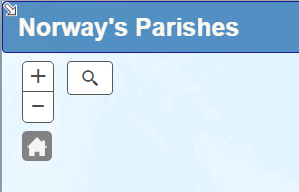
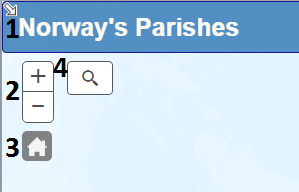
fix typos. Final commit for v2.1

diff --git a/help_v2.html b/help_v2.html
@@ -1,20 +1,22 @@
 <div class="content" class="bg-warning"><button id="exitButton" class="glyphicon glyphicon-remove-circle"></button>
     <h1>Using this application</h1>	
-    <p>This page gives instructions on how to use the various tools in this application including the basic map controls and the various search options. The following topics are covered: </p>
+    <p>This page gives instructions on how to use the various tools available in this website, including the basic map controls and the various search options. The following topics are covered: </p>
     <ul>
         <li><a href="#mapControls">Map Controls</a></li>
         <li><a href="#parishSearch">Parish Search Methods</a></li>
-        <li><a href="#farm">Farm Search Tool</a></li>
-        <li><a href="#farmExample">Farm Search Example</a></li>
+        <li><a href="#farm">Property (Farm) Search</a></li>
+        <li><a href="#farmExample">Example: Farm Search</a></li>
     </ul>
 
     <a name="mapControls"></a>
     <h2>Map Controls</h2> <hr>
-    <p> <img src="IMG/map-controls.PNG" align="left" class="img-rounded">The image to the left resembles the top left portion of the home screen. The buttons available here are primarily for map navigation purposes. The plus and minus buttons allow you to zoom in and out, while the "home" button will return you to the initial extent of the map. <img src="IMG/legend.PNG" align="right"> You'll also notice a small arrow in the top left corner of the image pointing towards the bottom right corner. When clicked, this opens an overview map that gives geographic context to the current extent of the map. This is particularly useful when the map is zoomed in very closely on the parish, city and property levels.</p>
-    
-    <p>The button symbolized with a magnifying glass allows you to search and zoom to parishes, municipalities, counties, or street addresses. See the <a href="#searchBar">Parish Search</a> topic below for more details on this tool. It is important to note that this button is not designed for searching farm or property names. To search farm names, see the <a href="#farm">Property (Farm) Search topic</a> below.</p>
-    
-    <p>The image on the right depicts the legend, which is located on the bottom right portion of the map. Here you can toggle various layers on and off, including parishes, municipalities, counties, and satellite imagery.</p>
+    <p> <img src="IMG/map-controls.PNG" align="left" class="img-rounded"> The image to the left resembles the top left portion of the home screen. The buttons available here are primarily for map navigation purposes. Match the labels in the image to the corresponding tool's description below.</p>
+        <p><strong>1. Overview map</strong> - Clicking this small arrow opens an overview map that gives geographic context to the current extent of the map. This is particularly useful when the map is zoomed in very closely on the parish, city and property levels.</p>
+        <p><strong>2. Zoom controls</strong> - clicking (+) zooms in one level to the center of the map. Clicking (-) zooms out one level.</p>
+        <p><strong>3. Home button</strong> - Click this button to return to the initial extent of the map.</p>
+        <p><strong>4. Search bar</strong> - Click this button to open the search bar, allowing you to search any parish, municipality, county, or address from one location. See the <a href="#searchBar">section below</a> for details and tips on using this tool. It is important to note that this button is not designed for searching farm or property names. To search farm names, see the <a href="#farm">Property (Farm) Search topic</a> below.</p>
+    <img src="IMG/legend.PNG" align="right">  
+    <p>The image to the right depicts the legend, which is located on the bottom right portion of the map. Here you can toggle various layers on and off, including parishes, municipalities, counties, and satellite imagery.</p>
     
     <a name="parishSearch"></a>
     <h2>Parish Search Methods</h2> <hr>
@@ -27,7 +29,7 @@
     </p>
 <a name="dropdown"></a>
 <h4>Dropdown menus</h4>
-<p>The dropdown menus in the <strong>Tools</strong> section to the left of the map allow you to select counties, municipalities, and parishes by jurisdiction. As you select a value from one dropdown, the remaining dropdowns will automatically populate with their appropriate values and the map will highlight and zoom to the selected geography. <img src="IMG/info.PNG" class="fullImage"> In addition to zooming to the region, a side panel will appear on the right side of the map displaying information for the region. On the parish level you will see links to general, historical and farm information for the parish along with links to the <a href="http://www.arkivverket.no/eng/Digitalarkivet">Norwegian Digital Archives</a> to search vital records filtered by the parish.</p>
+<p>The dropdown menus in the <strong>Tools</strong> section to the left of the map allow you to select counties, municipalities, and parishes by jurisdiction. As you select a value from one dropdown, the remaining dropdowns will automatically populate with their appropriate values and the map will highlight and zoom to the selected geography. <img src="IMG/info.PNG" class="fullImage"> In addition to zooming to the region, a side panel will appear on the right side of the map displaying information for the region. On the parish level you will see links to general, historical and farm information for the parish along with links to the <a href="http://www.arkivverket.no/eng/Digitalarkivet" target="_blank">Norwegian Digital Archives</a> to search vital records filtered by the parish.</p>
 
 <blockquote>This side panel will appear when a region is selected via any of the methods listed in this section. </blockquote>
 
@@ -36,7 +38,7 @@
 
 <img src="IMG/parish-search-2.png" align="right">
 
-<p> The search bar allows you to search any county, municipality, and parish in Norway with text input. As you type text, the names of geographic regions that match the spelling will appear in a suggestion dropdown in bold. You will notice that other suggestions are made for regions whose names don't match the search text. These results indicate regions under the jurisdiction of higher-level regions (e.g. parishes within counties). For example, in the image to the right, the user is typing "Hedmark" in the search bar for Hedmark County. Exact matches are made for "Hedmark" county and "Heddal" parish. The other municipalities and parishes being suggested belong to Hedmark County. </p>
+<p> The search bar is opened by clicking the button symbolized with a magnifying glass in the top left portion of the screen. This allows you to search any county, municipality, and parish in Norway with text input. As you type text, the names of geographic regions that match the spelling will appear in a suggestion dropdown in bold. You will notice that other suggestions are made for regions whose names don't match the search text. These results indicate regions under the jurisdiction of higher-level regions (e.g. parishes within counties). For example, in the image to the right, the user is typing "Hedmark" in the search bar for Hedmark County. Exact matches are made for "Hedmark" county and "Heddal" parish. The other municipalities and parishes being suggested belong to Hedmark County. </p>
 
 <!--<img src="IMG/parish-search-1.png" align="left">-->
 
@@ -48,14 +50,14 @@
 
 <a name="zoom"></a>
 <h4>Zoom and click</h4>
-<p>Upon zooming to an appropriate level in the map, you will notice the boundaries of parishes appear as purple lines along with their names. You can center and zoom to a parish and view its pertinent geographic information by simply clicking the region directly on the map. You may also do the same for counties and municipalities. To do so, however, you must turn on each of those sets of boundaries in the legend. Note that if multiple boundaries are turned on simultaneously, the highest geographic level will be selected when clicked. For example, if municipal and parish boundaries are both turned on, the municpality will be selected. If all layers are turned on, the county will be selected. Only the parishes are on by default.</p>
+<p>Upon zooming to an appropriate level in the map, you will notice the boundaries of parishes appear as purple lines along with their names. You can center and zoom to a parish and view its pertinent geographic information by simply clicking the region directly on the map. You may also do the same for counties and municipalities. To do so, however, you must turn on each of those sets of boundaries in the legend. Note that if multiple boundaries are turned on simultaneously, the highest geographic level will be selected when clicked. For example, if municipal and parish boundaries are both turned on, the municipality will be selected. If all layers are turned on, the county will be selected. Only the parishes are on by default.</p>
     
 <a name="farm"></a>
     <h2>Property (Farm) Search</h2> <hr>
 
  <img src="IMG/farm-search.PNG" align="left"> 
 
-    <p>Below the dropdown menus in the <strong>Tools</strong> section you will see a text box for searching farm/property names. This allows you to search any property nationwide by its <a href="http://www.borgos.nndata.no/FARMS.HTM">name</a>.</p>
+    <p>Below the dropdown menus in the <strong>Tools</strong> section you will see a text box for searching farm/property names. This allows you to search any property nationwide by its <a href="http://www.borgos.nndata.no/FARMS.HTM" target="_blank">name</a>.</p>
 
 <p>A nice feature of this search is that you can filter your results based on the region you have selected on the map. This is enabled when the checkbox below the search bar is checked (it is checked by default). If you would rather not limit your results based on your selected county or parish, simply uncheck the box. Be aware, however, that this may increase the time for performing the search. Because the search can be exhaustive, farm searches may take several seconds to complete.</p>
 
@@ -63,24 +65,24 @@
 
 <p>If you aren't seeing the farm results you expect, it may be because of several reasons. Because geographic boundaries have changed over time (these boundaries reflect parishes as they were in 1979) the property may not reside in the current boundary you are using to filter. Uncheck the filter option and run the search again to broaden your search geographically.</p>
     
-<p>You may have also mispelled the name. Many property names have multiple spellings, only one of which is used in this search. You can review alternate spellings by viewing information about the farm in <a href="http://www.dokpro.uio.no/rygh_ng/rygh_form.html">Oluf Rygh's Norwegian farm name database</a>. You can view his list of farms in the county by clicking the farm list option in the county or parish information box in the map.</p>
+<p>You may have also misspelled the name. Many property names have multiple spellings, only one of which is used in this search. You can review alternate spellings by viewing information about the farm in <a href="http://www.dokpro.uio.no/rygh_ng/rygh_form.html" target="_blank">Oluf Rygh's Norwegian farm name database</a>. You can view his list of farms in the county by clicking the farm list option in the county or parish information box in the map.</p>
 
-<p>It may also be helpful to use the asterisk character as a wildcard symbol in the search. For example, you may not recall the spelling of the farm name "Dønnestad" in Tveit, Tveit, Vest-Agder. Does it have one "n" or two? Does it use an "o" or an "ø". To overcome this issue, simply type "d*n*" in the search box after selecting Tveit parish. By doing this you are essentially saying, "I know the farm starts with a 'd', and 'n' is the third letter, but I don't know any of the other letters". Now click "Go" and you will get one result for the correct farm name. Very convenient! This is especially useful when dealing with the special characters "Æ", "Ø", and "Å". </p>
+<p>It may also be helpful to use the asterisk character as a wildcard symbol in the search. For example, you may not recall the spelling of the farm name "Dønnestad" in Tveit, Tveit, Vest-Agder. Does it have one "n" or two? Does it use an "o" or an "ø"? To overcome this issue, simply type "d*n*" in the search box after selecting Tveit parish. By doing this you are essentially saying, "I know the farm name starts with a 'd' followed by other letter(s) and 'n' is one of them, but not the last one." Now click "Go" and you will get one result for the correct farm name. This can be very convenient when dealing with the special characters "Æ", "Ø", and "Å". </p>
 
-<blockquote>The farm search only finds exact matches, so special characters must be used if they appear in the property name. To access special Norwegian characters, you must enable the Norwegian keyboard on your computer. You can accomplish this by following the steps in <a href="https://familysearch.org/learn/wiki/en/Norway:_Typing_%C3%86,_%C3%98,_and_%C3%85">this article</a> or you can use the asterisk as a replacement as a work around.</blockquote>
+<blockquote>The farm search only finds exact matches, so special characters must be used if they appear in the property name. To type special Norwegian characters, you must enable the Norwegian keyboard on your computer. You can accomplish this by following the steps in <a href="https://familysearch.org/learn/wiki/en/Norway:_Typing_%C3%86,_%C3%98,_and_%C3%85" target="_blank">this article</a> or you can use the asterisk as a work around.</blockquote>
 
 <a name="farmExample"></a>
 <h2>Example: Farm Search</h2> <hr>
 
 <img src="IMG/farm-search-result.png" class="fullImage">
 
-<p>See the above image for reference. Here I typed a very popular property name in Norway: "Nes". And searched the entire country. I received 50 results, which is the maximum number for any given search. A list appears on the left side of the screen and the locations of each property are plotted on the map. As you hover over names in the list, the property is highlighted in red on the map. </p>
+<p>In the image above, I typed a very popular property name in Norway - "Nes" - and searched the entire country. I received 50 results, which is the maximum number for any given search. A list appears on the left side of the screen and the locations of each property are plotted on the map. As you hover over names in the list, the property is highlighted in red on the map. </p>
 
 <p>In this example, I'm looking for a farm in Sogn og Fjordane County. I scroll through the list until I find it. I click it and the map immediately zooms to the location of the farm. This is also accomplished by clicking on the point in the map. See the image below.<blockquote>Note: this is not a best practice for searching common property names. It is usually better to filter by county or parish when performing searches to avoid sifting through dozens of property names.</blockquote></p>
 
 <img src="IMG/farm-search-result-2.png" class="fullImage">
 
-<p>Notice the new information available in the box to the right of the map. You can click a link to view current information about the property, which may be useful in your research. You can also click a link to view the pertinent parish information for the parish the farm belongs to. Clicking this option will zoom to the parish level, giving you context to the farm's location in the parish. You also have access to all the vital records in the parish to faciliate searches for official vital records via the <a href="http://www.arkivverket.no/eng/Digitalarkivet">Norwegian Digital Archives</a>.</p>
+<p>Notice the new information available in the box to the right of the map. You can click a link to view current information about the property, which may be useful in your research. You can also click a link to view the pertinent parish information for the parish the farm belongs to. Clicking this option will zoom to the parish level (see image below), giving you context to the farm's location in the parish. You also have access to all the vital records in the parish to facilitate searches for official vital records via the <a href="http://www.arkivverket.no/eng/Digitalarkivet" target="_blank">Norwegian Digital Archives</a>.</p>
 
 <img src="IMG/farm-search-result-3.png" class="fullImage">
     

diff --git a/about_v2.html b/about_v2.html
@@ -4,9 +4,9 @@
     in conducting genealogical research. Kristian Ekenes created it in 2014 while working on his master’s 
     degree in Geographic Information Systems at Arizona State University. </p>
 
-    <p>The primary goal of NorwayParishes.com is to provide researchers with interactive, accurate, and precise maps 
+    <p>The primary goal of NorwayParishes.com is to provide genealogical researchers with interactive, accurate, and precise maps 
     of Norway's parish boundaries while providing 
-    links to the best online genealogical research tools available, filtered by geographic jurisdiction (parishes and counties).</p>
+    links to the best online genealogical research tools available, filtered by geographic jurisdiction (parishes and counties). Because farms and other properties play a unique role in Norwegian genealogical research, this site also provides a farm search tool that allows anyone to search the exact location of farms or other properties by their name along with information about the parish in which the property resided.</p>
 
     <h2>The Need</h2> <hr>
 
@@ -17,15 +17,15 @@
     to identify unknown ancestors’ names and residences, obtain official documentation or vital records of ancestors, 
     or are simply trying to learn more about the region where your ancestors lived, NorwayParishes.com will make the process of answering these questions easier.</p>
 
-    <p>Many tools already exist to facilitate Norwegian genealogical research online. However, few of 
-    those tools provide detailed maps for each parish on a large scale. In fact, before NorwayParishes.com 
+    <p>Many online tools already exist to facilitate Norwegian genealogical research. However, few of 
+    these tools provide detailed maps for each parish on a large scale. In fact, before NorwayParishes.com 
     launched no searchable, interactive, nationwide web map of Norwegian parish boundaries existed on the web. Print maps of parishes
     are available online through the <a href='http://digitalarkivet.uib.no/geistleg/oversikt.htm' target="_blank">Norwegian National Archives</a> 
-    and <a href='https://familysearch.org/learn/wiki/en/Norway_Maps' target="_blank">FamilySearch</a>, but those 
+    and <a href='https://familysearch.org/learn/wiki/en/Norway_Maps' target="_blank">FamilySearch</a>, but these 
     maps are limited in their ability to depict geographic details on large scales. Understanding the regional context of the parish of interest as well as the 
-    details of locations that exist within the parish help researchers better understand the stories of their ancestors' lives as well as their place in world history.</p>
+    details of locations that exist within the parish helps researchers better understand the stories of their ancestors' lives as well as their place in world history.</p>
 
-    <p>Unfortunately, the print maps mentioned above can become useless when a researcher desires to view specific locations (such as farms) within parish 
+    <p>Unfortunately, the print maps mentioned above can become meaningless when a researcher desires to view specific locations (such as farms) within parish 
     boundaries. Using them to find a specific parish's boundaries can also be time consuming due to illegibility and limitations of map scale. 
     Also, parish boundaries become generalized causing them to lose a large 
     amount of detail. The way to solve these issues in the past has been to collect a series of maps and atlases in various scales

diff --git a/index.html b/index.html
@@ -42,11 +42,9 @@
     <nav class="navbar navbar-default visibleBar">
         <div class="container-fluid">
           <div class="navbar-header">
-<!--
             <a class="navbar-brand" href="#">
-                <img alt="Brand" src="...">
+                <img alt="Norway's Parishes" src="IMG/norway-flag.png">
             </a>
--->
         <button type="button" class="navbar-toggle collapsed" data-toggle="collapse" data-target="#navbar" aria-expanded="false" aria-controls="navbar">
           <span class="sr-only">Toggle navigation</span>
           <span class="icon-bar"></span>

diff --git a/CSS/parishstyle_v2.css b/CSS/parishstyle_v2.css
@@ -3,6 +3,11 @@
   border-color: darkblue;
 }
 
+.navbar-brand>img{
+    width: 40px;
+    padding-left: 5px;
+}
+
 .navbar-default .navbar-brand{
   color: floralwhite;
 }
